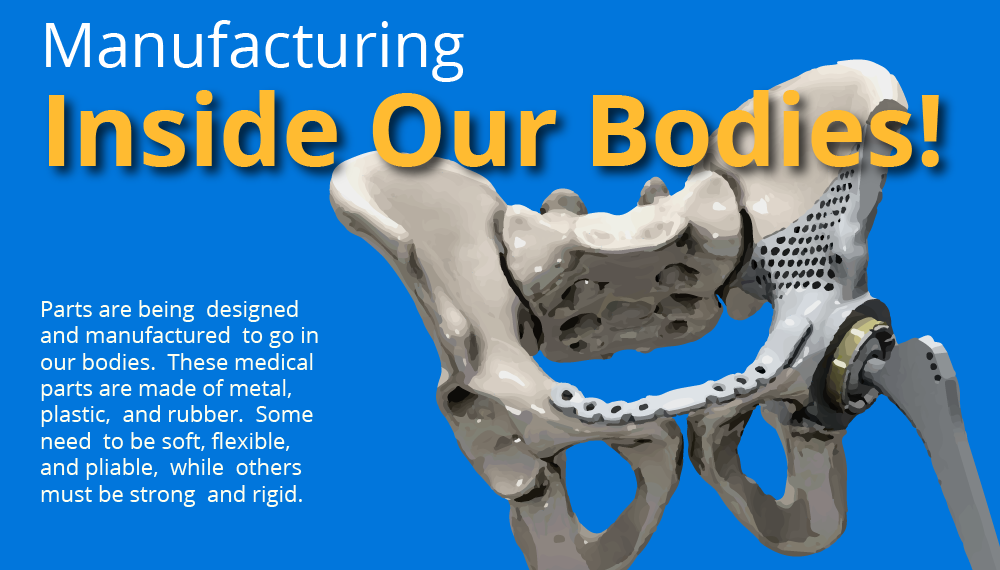
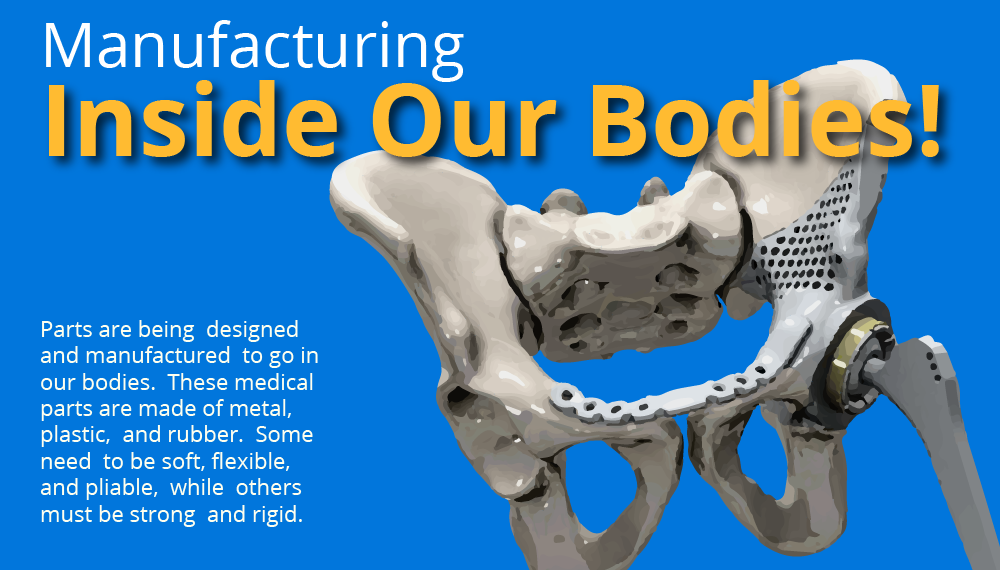
CMI ar content updates

Changed region(s): [[0.031, 0.1193, 0.961, 0.3281], [0.031, 0.5368, 0.341, 0.9246]]

diff --git a/media/stylesheets/cmi.css b/media/stylesheets/cmi.css
@@ -1340,7 +1340,7 @@ header .selected {
 /* line 328, ../sass/cmi.scss */
 #arviewer {
   height: 1920px;
-  width: 3898px;
+  width: 4044px;
 }
 /* line 331, ../sass/cmi.scss */
 #arviewer img {
@@ -1375,38 +1375,38 @@ header .selected {
 }
 /* line 353, ../sass/cmi.scss */
 #arviewer .arcallout.ar1 {
-  top: 870px;
-  left: 660px;
+  top: 840px;
+  left: 920px;
 }
 /* line 354, ../sass/cmi.scss */
 #arviewer .arcallout.ar2 {
-  top: 560px;
-  left: 1520px;
+  top: 550px;
+  left: 1605px;
 }
 /* line 355, ../sass/cmi.scss */
 #arviewer .arcallout.ar3 {
   top: 600px;
-  left: 1810px;
+  left: 1910px;
 }
 /* line 356, ../sass/cmi.scss */
 #arviewer .arcallout.ar4 {
-  top: 435px;
-  left: 2065px;
+  top: 434px;
+  left: 2055px;
 }
 /* line 357, ../sass/cmi.scss */
 #arviewer .arcallout.ar5 {
-  top: 675px;
-  left: 2255px;
+  top: 670px;
+  left: 2235px;
 }
 /* line 358, ../sass/cmi.scss */
 #arviewer .arcallout.ar6 {
-  top: 690px;
-  left: 2450px;
+  top: 605px;
+  left: 2415px;
 }
 /* line 359, ../sass/cmi.scss */
 #arviewer .arcallout.ar7 {
-  top: 425px;
-  left: 2820px;
+  top: 345px;
+  left: 2585px;
 }
 
 /****************/
@@ -1454,7 +1454,7 @@ video {
   min-height: 1840px;
   position: relative;
   padding-bottom: 20px;
-  margin: 40px;
+  margin: 40px 20px;
   border-radius: 1 solid #f4b90b;
   background: #25253A;
   -moz-border-radius: 0.5rem;

diff --git a/media/sass/cmi.scss b/media/sass/cmi.scss
@@ -327,7 +327,7 @@ header{
 
 #arviewer{
 	height: 1920px;
-	width: 3898px;
+	width: 4044px;
 	img{
 		position: absolute;
 		top: 0;
@@ -350,13 +350,13 @@ header{
 		    transform: translate(-50%, -50%);
 		    color: $clr-lightest;
 		}
-		&.ar1{	top:870px;	left: 660px;}
-		&.ar2{ 	top:560px;	left: 1520px;}
-		&.ar3{	top:600px;	left: 1810px;}
-		&.ar4{	top:435px;	left: 2065px;}
-		&.ar5{	top:675px;	left: 2255px;}
-		&.ar6{	top:690px;	left: 2450px;}
-		&.ar7{	top:425px;	left: 2820px;}
+		&.ar1{	top:840px;	left: 920px;}
+		&.ar2{ 	top:550px;	left: 1605px;}
+		&.ar3{	top:600px;	left: 1910px;}
+		&.ar4{	top:434px;	left: 2055px;}
+		&.ar5{	top:670px;	left: 2235px;}
+		&.ar6{	top:605px;	left: 2415px;}
+		&.ar7{	top:345px;	left: 2585px;}
 	}
 }
 
@@ -398,7 +398,7 @@ video{
 	min-height: 1840px;
 	position: relative;
 	padding-bottom: 20px;
-	margin: 40px;
+	margin: 40px 20px;
 	border-radius: 1 solid $clr-cmibrand;
 	background: #25253A;
 	@include border-radius-all;

diff --git a/cmi/ar.html b/cmi/ar.html
@@ -33,7 +33,7 @@
 
 	<body>
 		<div id="arviewer">
-			<img src="../media/images/cmi-arbg4.png">
+			<img src="../media/cmi-images/ar-BG1.png">
 			<a href="#openModal1" class="arcallout ar1"><h2>1</h2></a>
 			<a href="#openModal2" class="arcallout ar2"><h2>2</h2></a>
 			<a href="#openModal3" class="arcallout ar3"><h2>3</h2></a>
